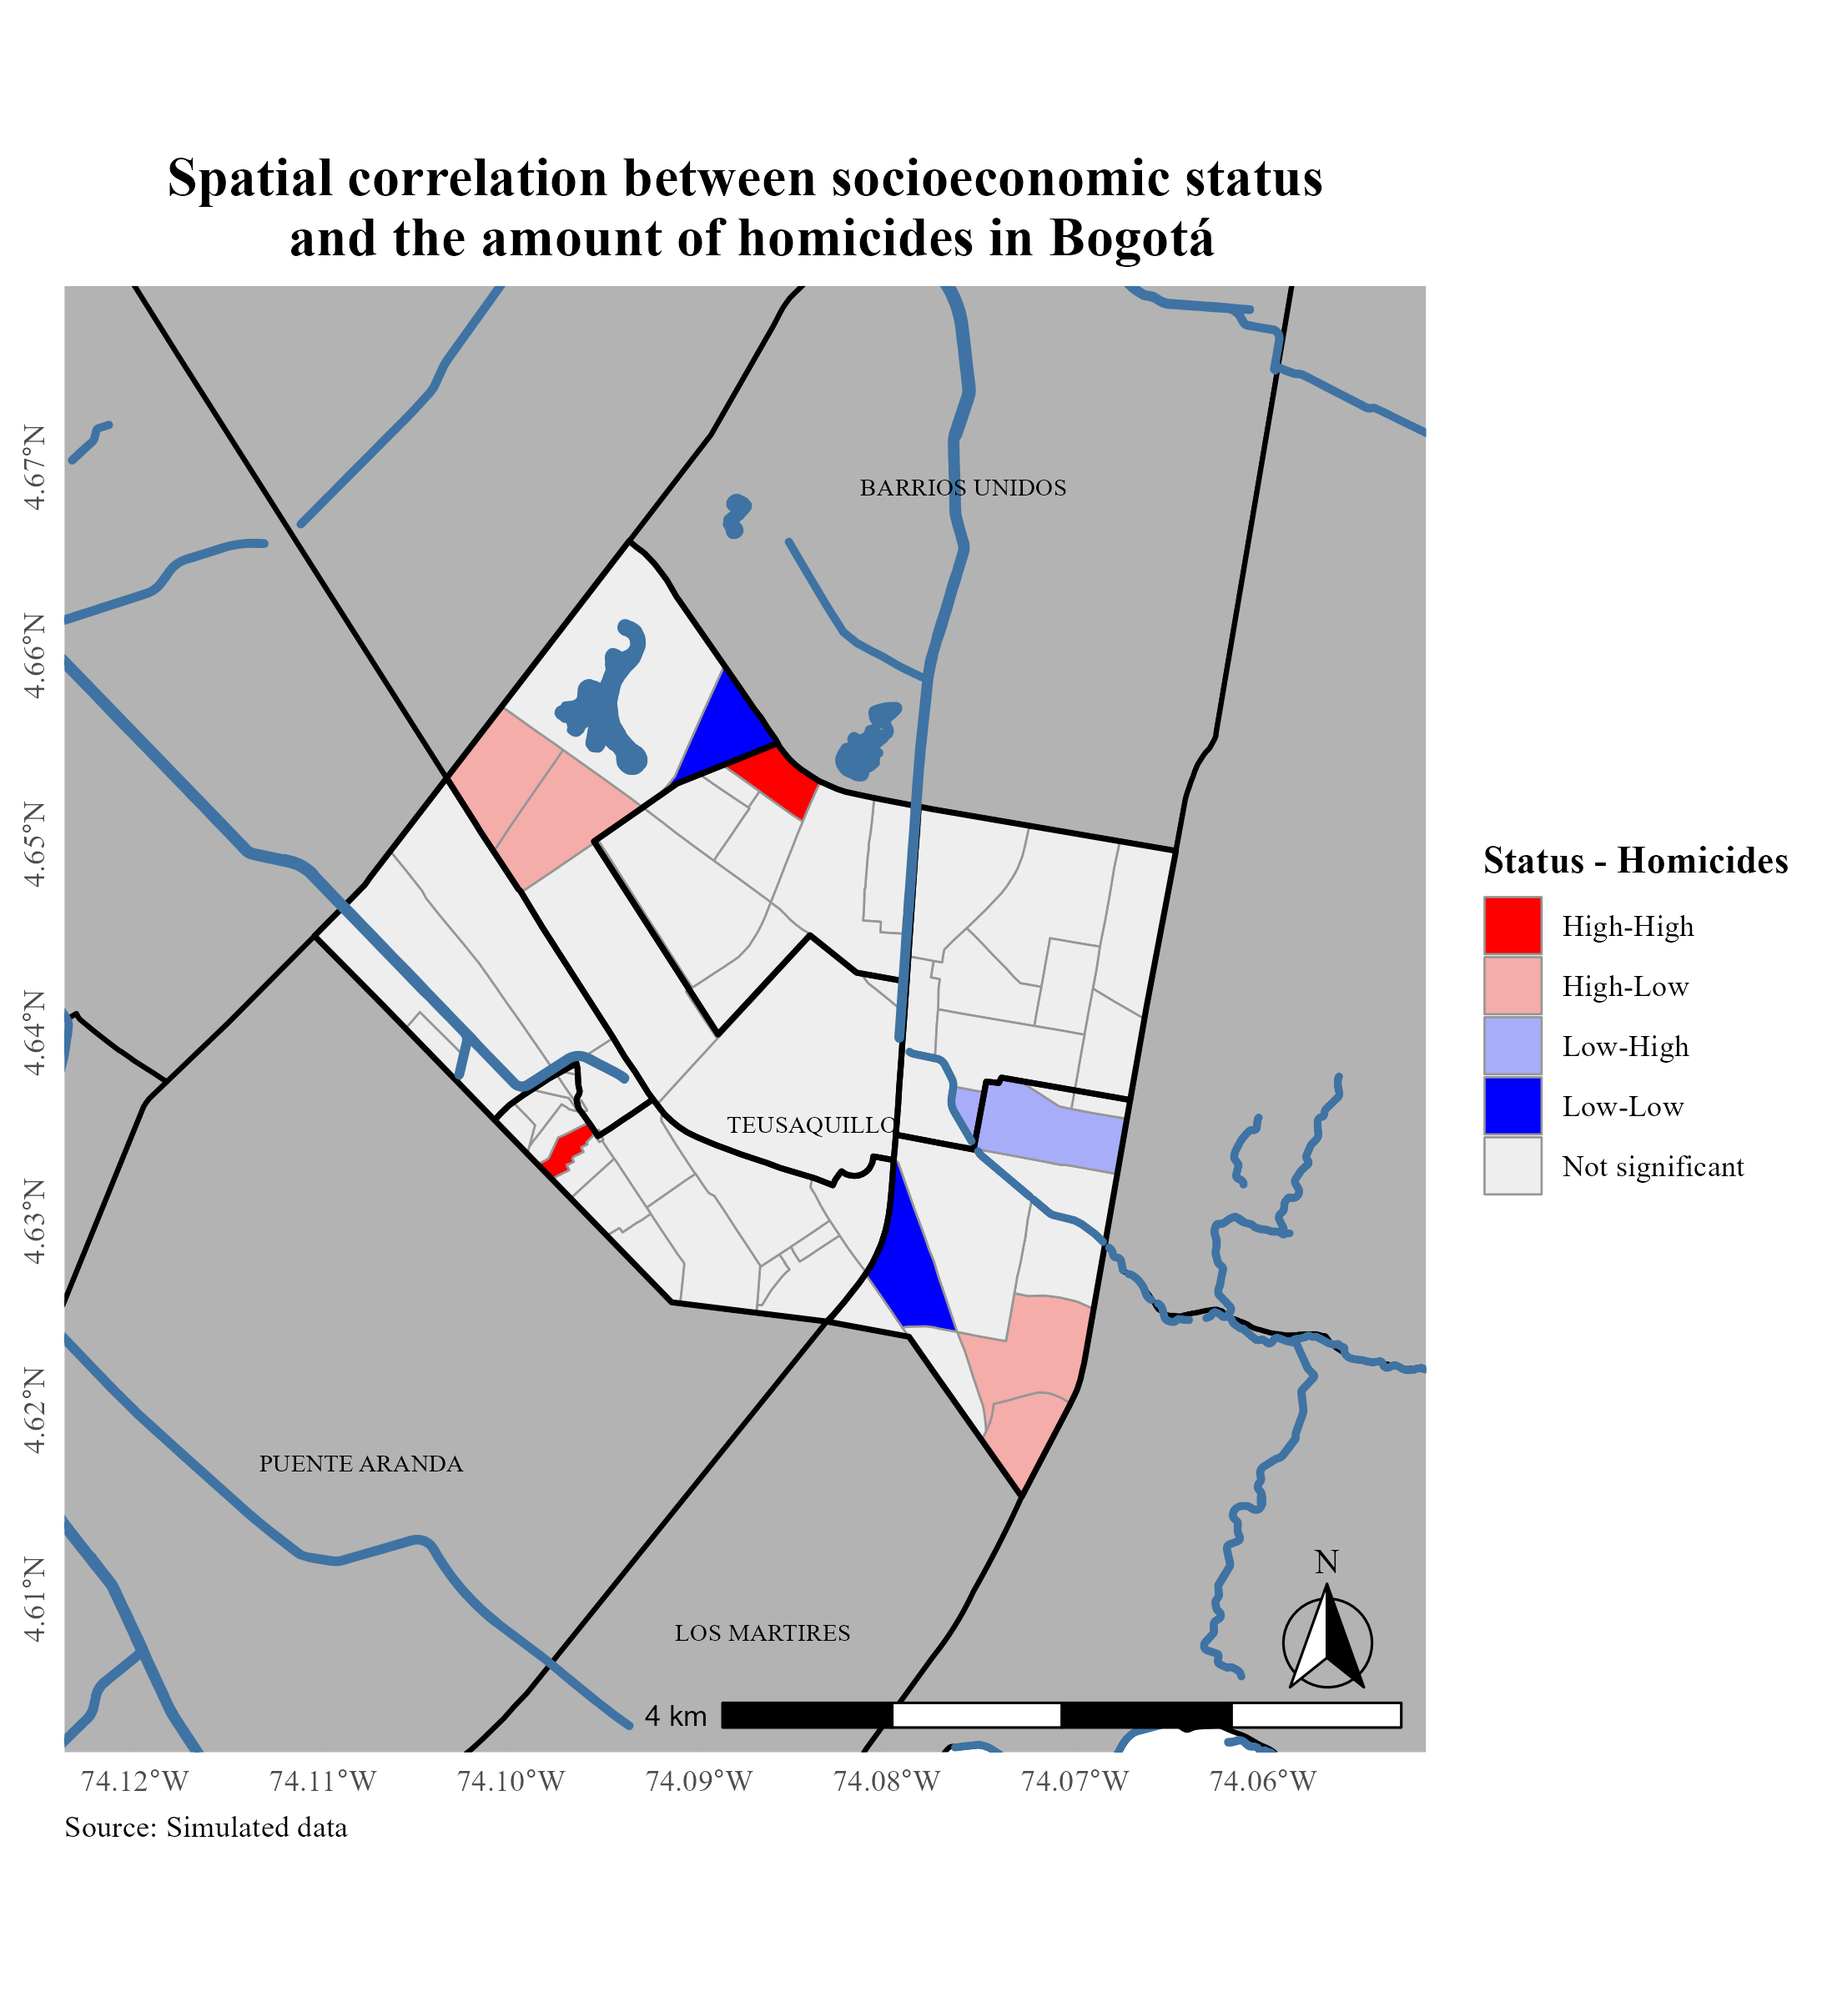
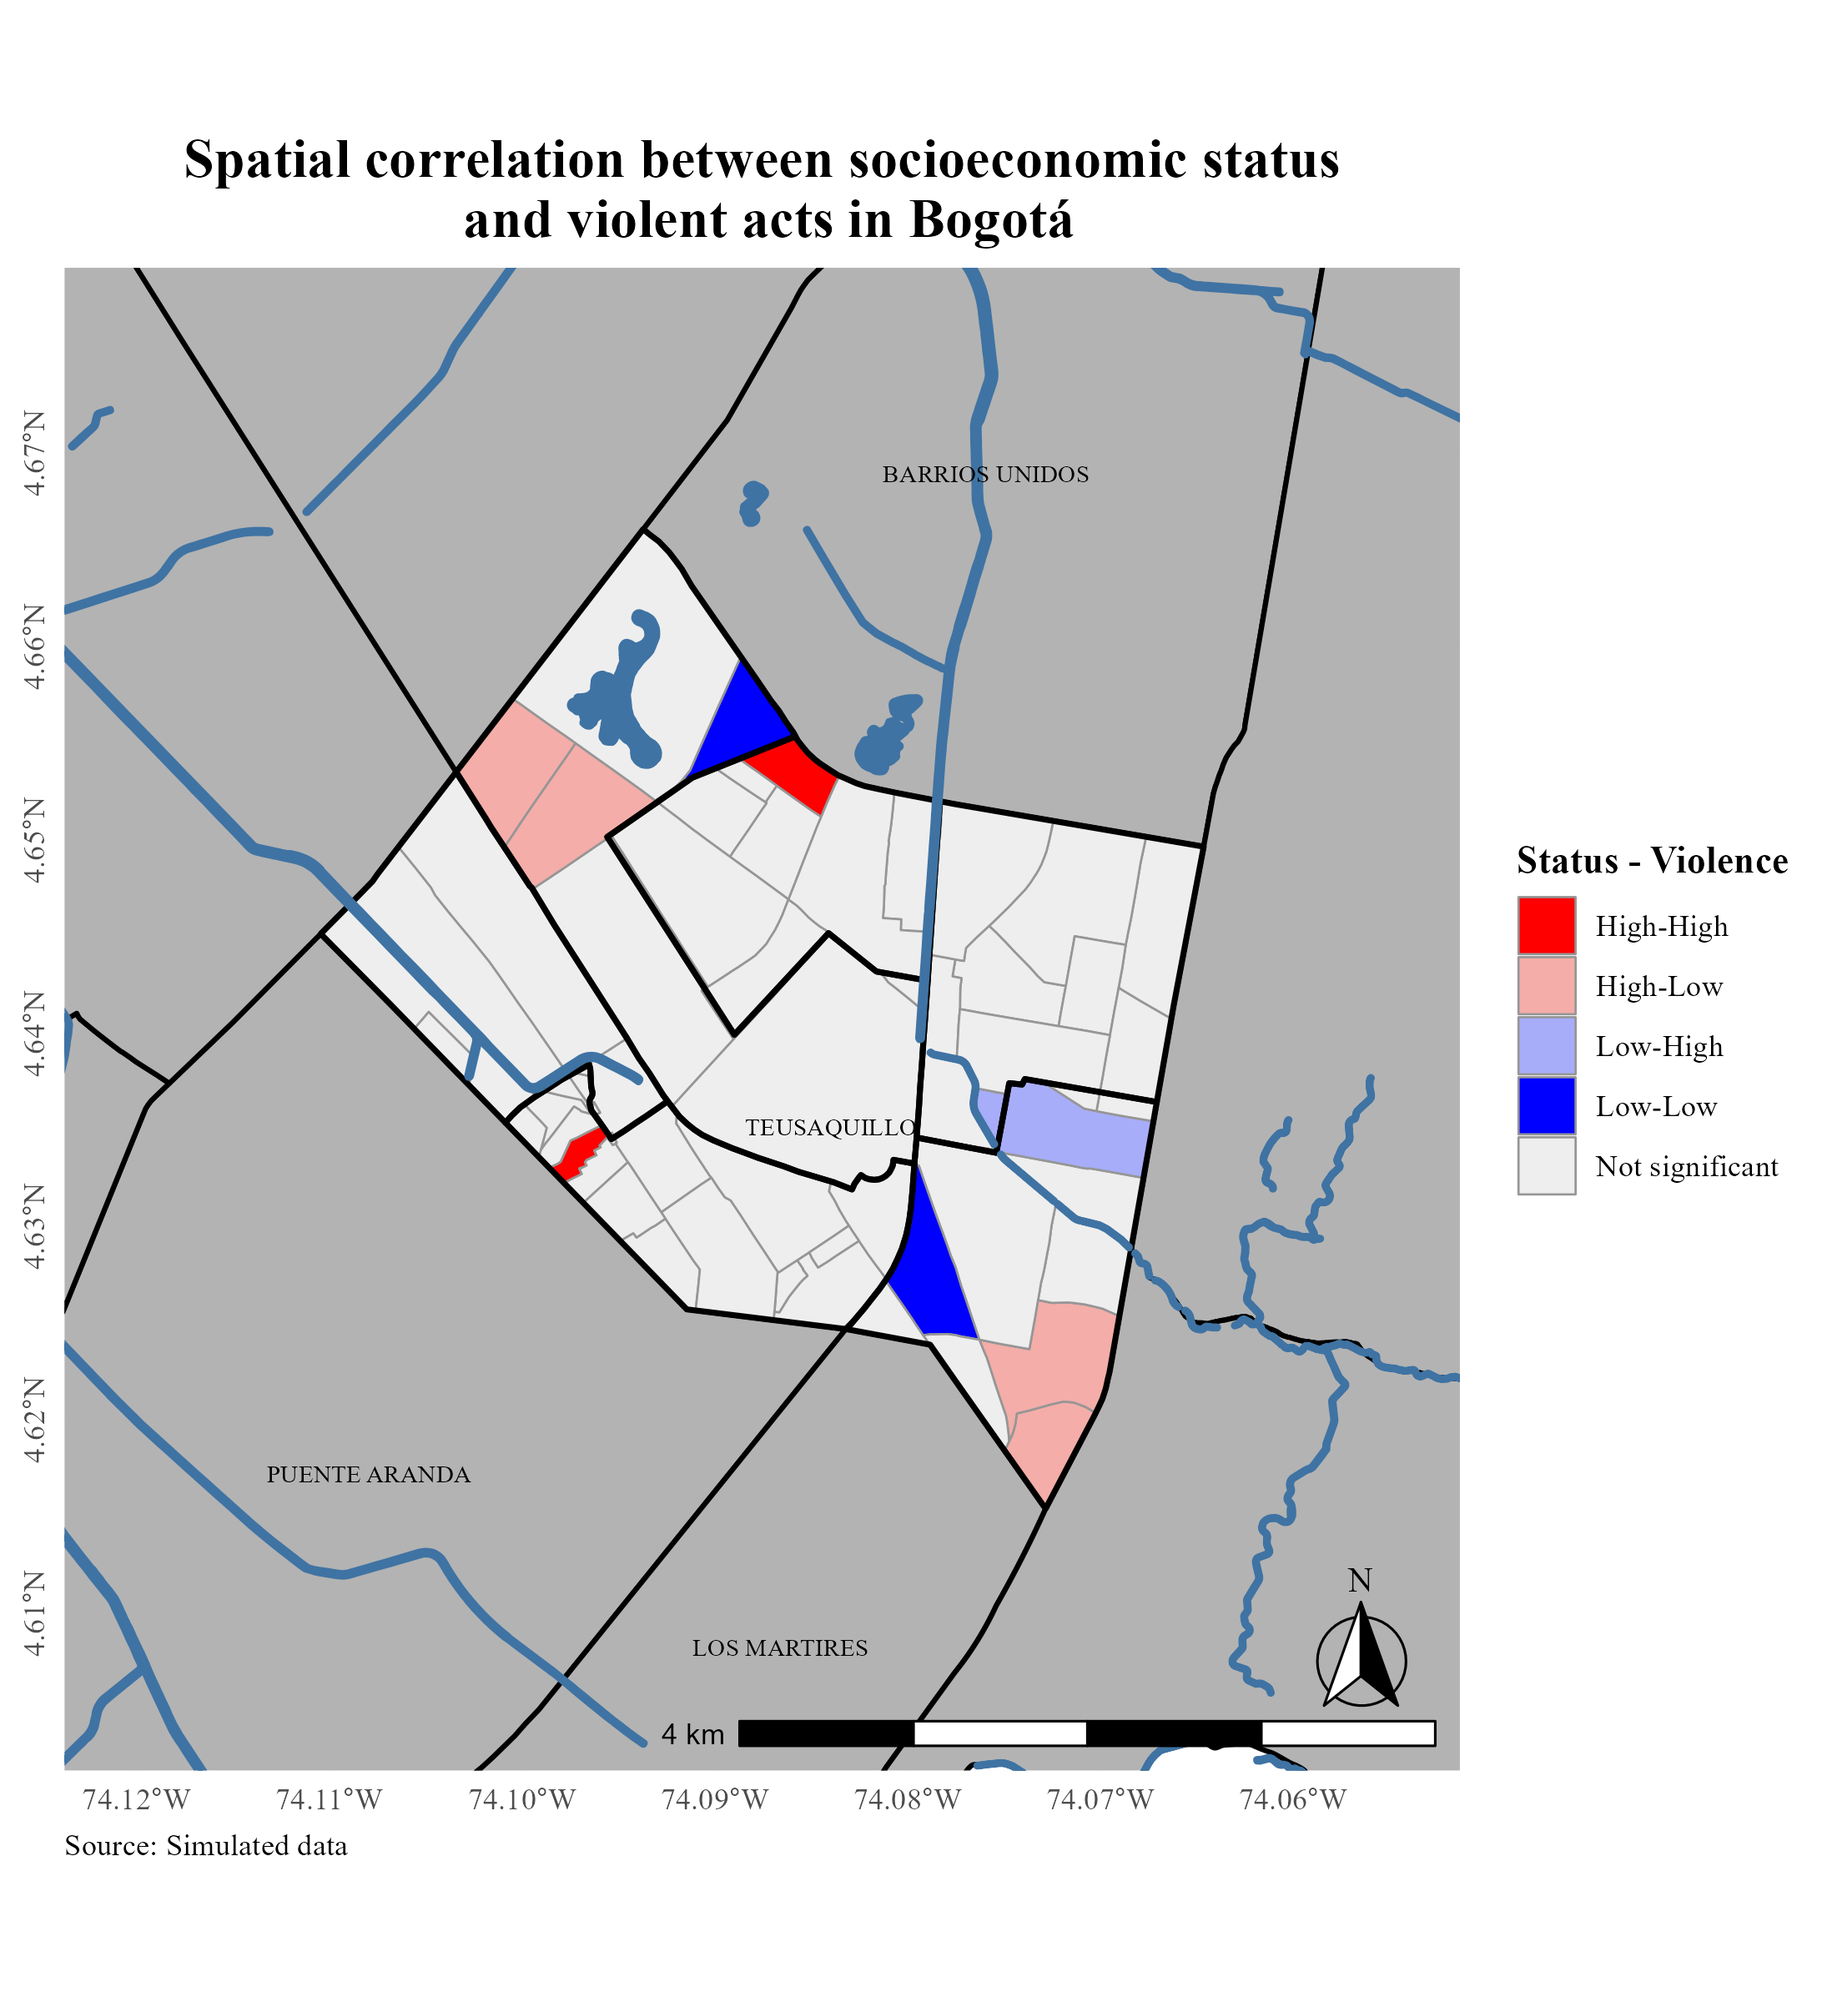
Push

diff --git a/_photography/Moran.md b/_photography/Moran.md
@@ -13,7 +13,7 @@ Moran's I is a global measure of spatial autocorrelation that quantifies the deg
 
 ## A study case in Bogotá
 
-In order to make an example of this test, I simulated a database of socioeconomic status and the amount of homicides in Bogotá focusing in Teusaquillo town. For more information regarding the commands used, please feel free to email me on <a href="mailto:p.valcarcel@uniandes.edu.co">p.valcarcel@uniandes.edu.co</a>.
+In order to make an example of this test, I simulated a database of socioeconomic status and violent acts in Bogotá focusing in Teusaquillo. The graph shows places with different socioeconomic levels in which acts of violence occur on different scales. For example, red areas have a high socioeconomic level but suffer from a high level of violence.
 
 <div style="text-align:center">
     <img src="/assets/Maps/Mbi_Bogota.png" alt="Moran" width="80%" style="margin-bottom: 5px;">
@@ -21,7 +21,7 @@ In order to make an example of this test, I simulated a database of socioeconomi
 
 ## A study case in Lima
 
-To continue with the examples, I simulated a databsae of poverty level and per capita household spending level for Lima. The administrative boundaries are in level 2. 
+To continue with the examples, I simulated a databsae of poverty level and per capita household spending level for Lima. The administrative boundaries are in level 2. The way to understand the graph is the same than the last one. For more information regarding the commands used, please feel free to email me on <a href="mailto:p.valcarcel@uniandes.edu.co">p.valcarcel@uniandes.edu.co</a>.
 
 <div style="text-align:center">
     <img src="/assets/Maps/Mbi_Lima.png" alt="Moran" width="80%">
